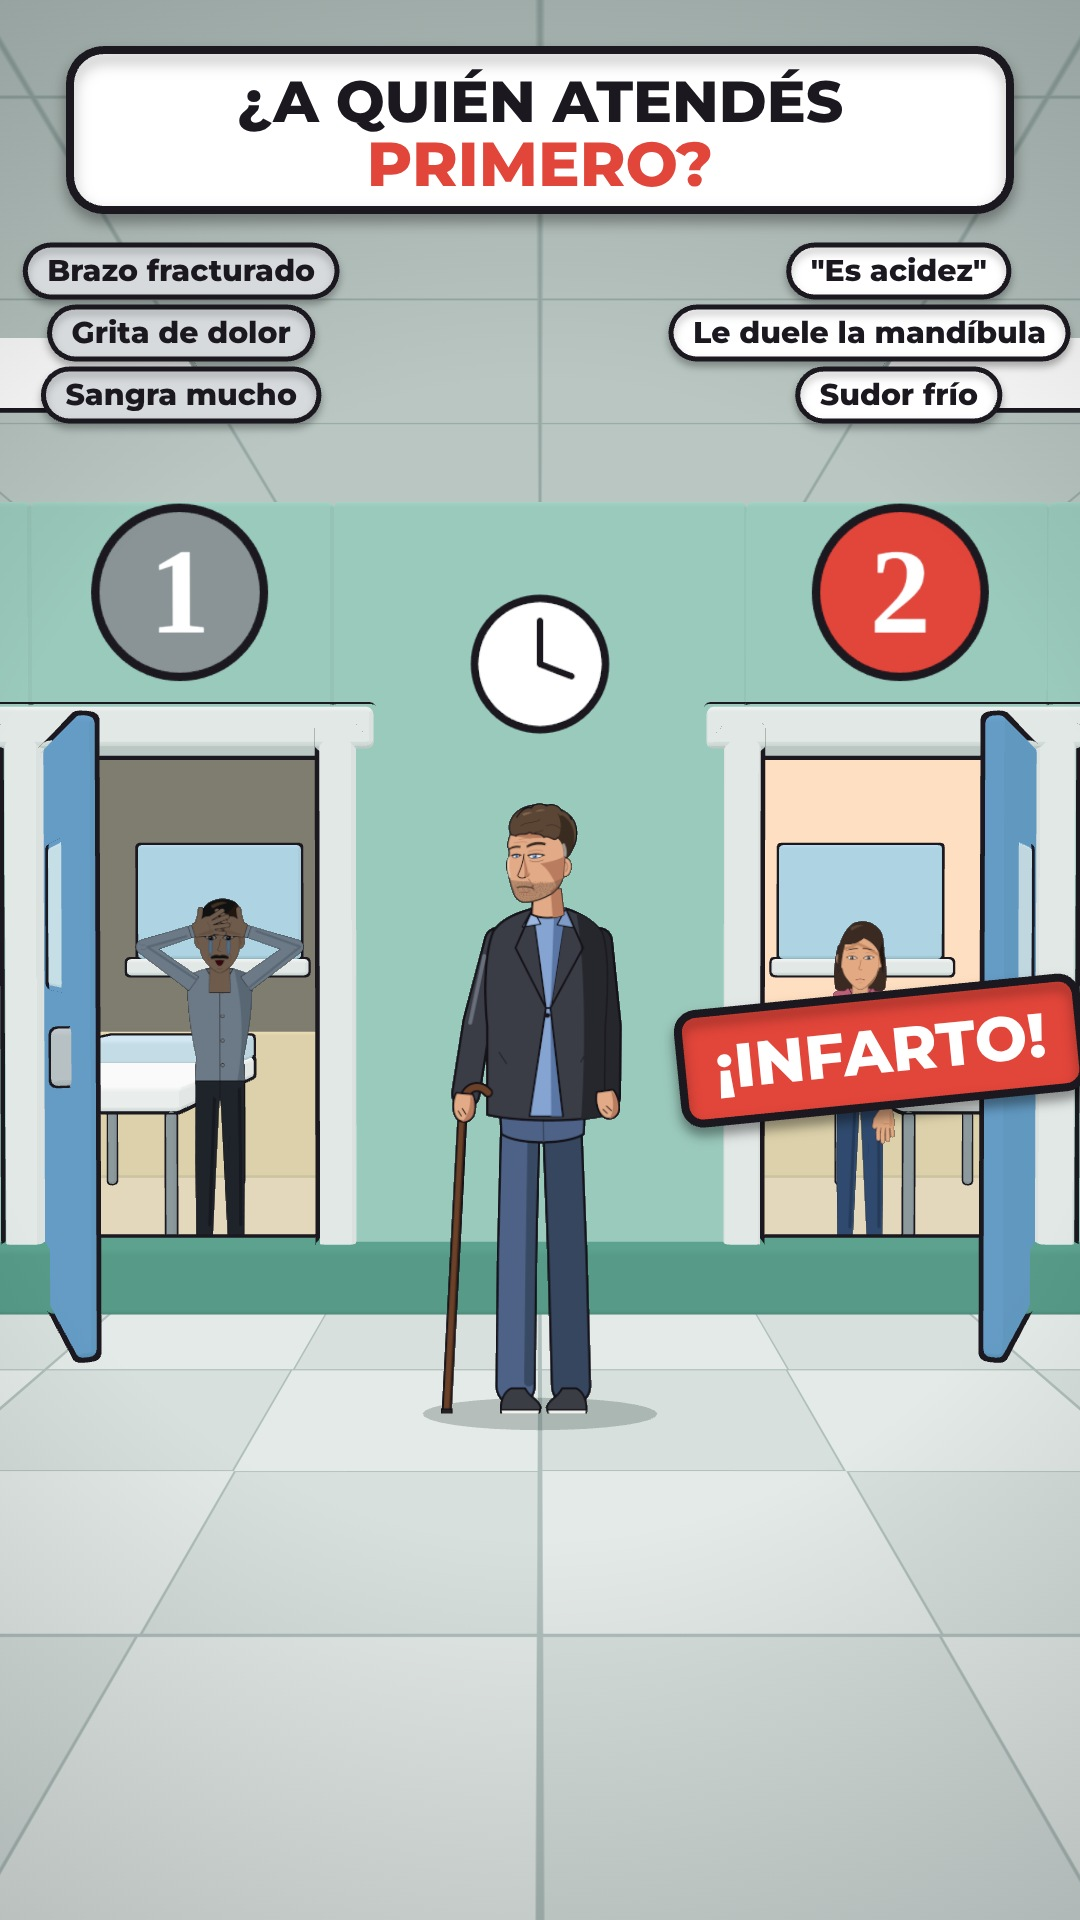
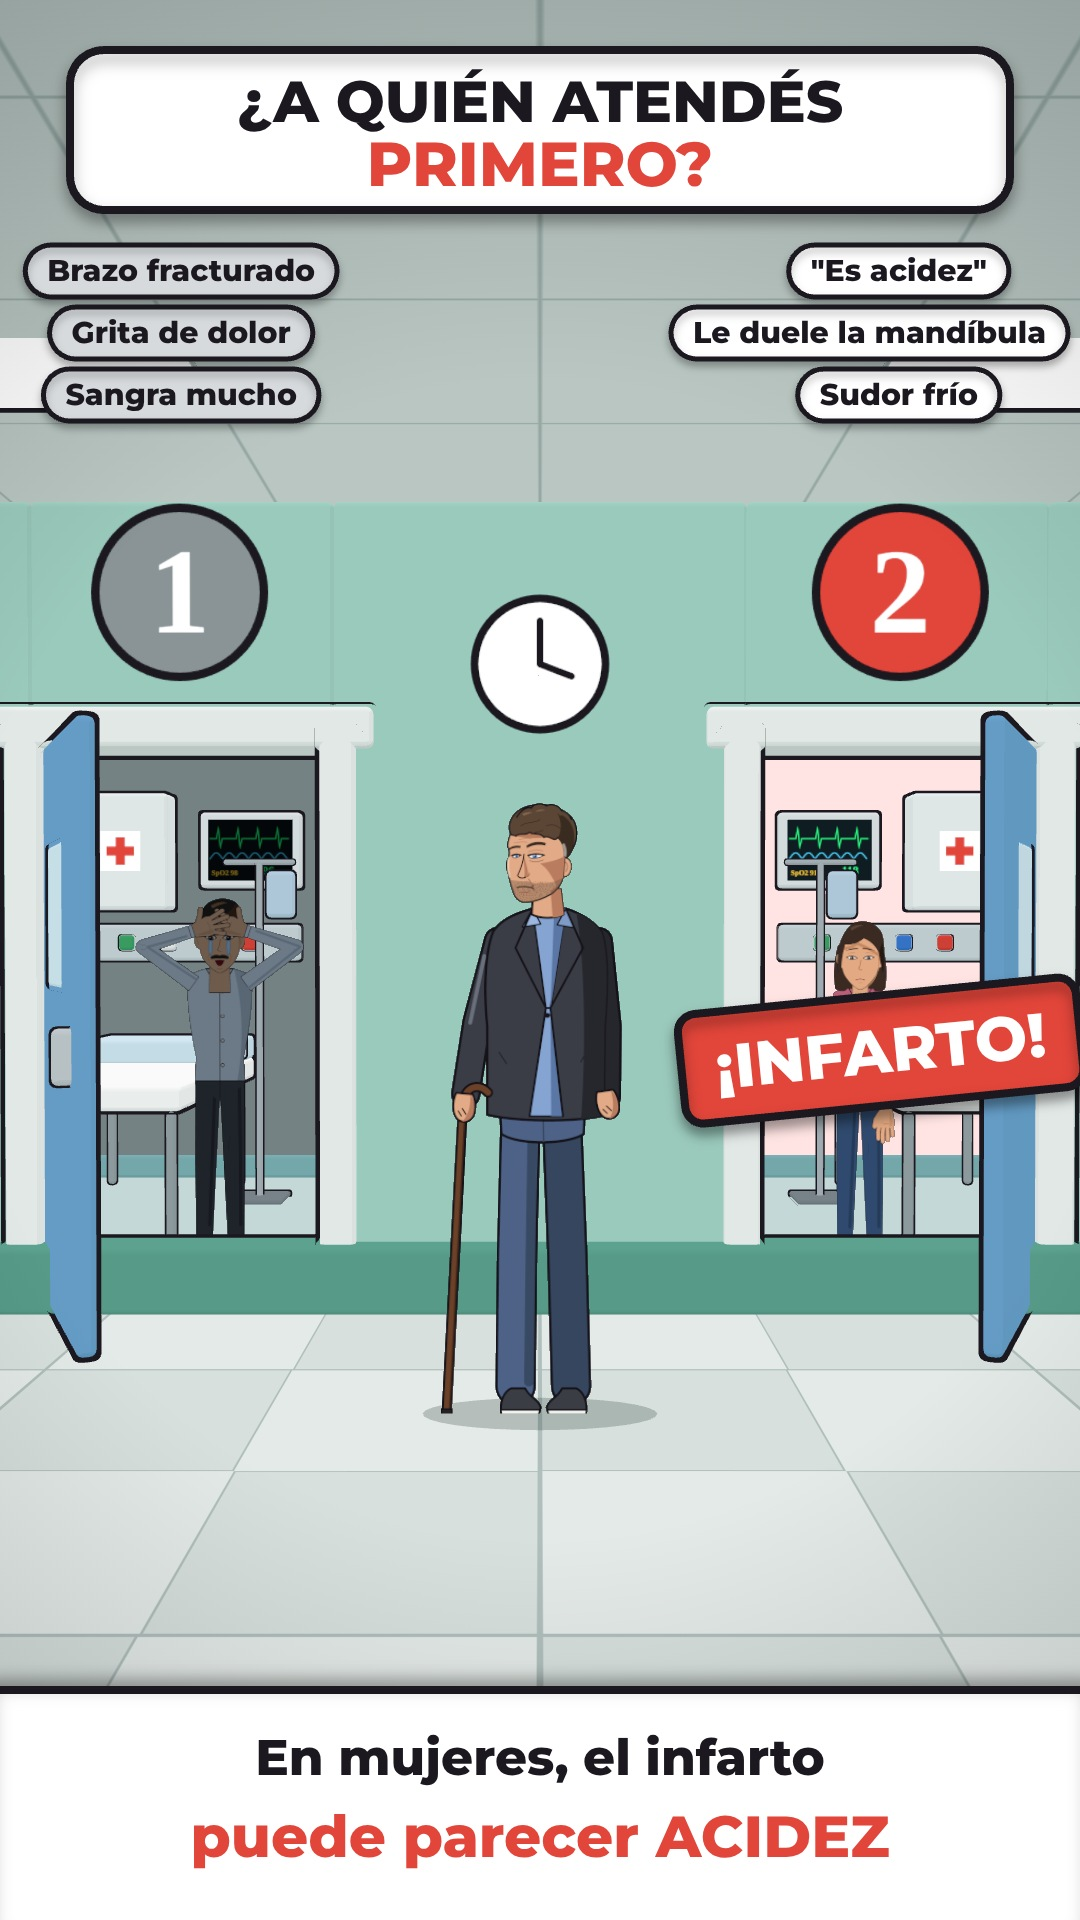
Puertas 3D: cuartos de hospital (monitor, suero, panel de oxígeno, botiquín) y vuelve el dato en la revelación
Claude-Session: https://claude.ai/code/session_01GkkXfD2Nm3TmxvYx4d4aPy

diff --git a/herramientas/marvel/puertas3d.js b/herramientas/marvel/puertas3d.js
@@ -53,19 +53,42 @@ for (const [s, n] of [[-1, 1], [1, 2]]) {
   box(.4, .55, .08, '#d9eef8', -s * (DW - .06) / 2, 1.55, 0, { parent: hinge, t: .01 });
   box(.05, .2, .1, '#c9cfd4', -s * (DW - .2), 1.05, .05, { parent: hinge, t: .008 });
   // cuarto
-  const RZ = ZB - .1, RD = 3.2, RW = 3.0, inside = toon('#fbeed0', null, REVEAL ? { emissive: n === 2 ? '#ff2a1a' : '#000000', emissiveIntensity: n === 2 ? .45 : 0, color: n === 1 ? '#8c8778' : '#fbeed0' } : {});
+  const RZ = ZB - .1, RD = 3.2, RW = 3.0, inside = toon('#e6f3f4', null, REVEAL ? { emissive: n === 2 ? '#ff2a1a' : '#000000', emissiveIntensity: n === 2 ? .45 : 0, color: n === 1 ? '#7f8c8e' : '#e6f3f4' } : {});
   const rm = new THREE.Group(); S.add(rm);
   const rp = (w, h, x, y, z, rx, ry, c) => { const m = new THREE.Mesh(new THREE.PlaneGeometry(w, h), c ? toon(c) : inside); m.position.set(x, y, z); m.rotation.set(rx, ry, 0); rm.add(m); return m; };
   rp(RW, HG, cx, HG / 2, RZ - RD, 0, 0);                                   // fondo
   rp(RD, HG, cx - RW / 2, HG / 2, RZ - RD / 2, 0, Math.PI / 2);             // lados
   rp(RD, HG, cx + RW / 2, HG / 2, RZ - RD / 2, 0, -Math.PI / 2);
-  rp(RW, RD, cx, 0, RZ - RD / 2, -Math.PI / 2, 0, '#e8dcc0');               // piso
-  rp(RW, RD, cx, HG, RZ - RD / 2, Math.PI / 2, 0, '#fff7e6');
-  box(RW, .9, .05, '#f1e0b8', cx, .45, RZ - RD + .03, { line: false });     // zócalo del cuarto
-  box(1.0, .7, .06, '#bfe3f5', cx + s * .55, 1.7, RZ - RD + .05, { t: .014 }); // ventana
-  box(1.1, .1, .1, '#f7f9f8', cx + s * .55, 1.3, RZ - RD + .1, { t: .012 });
+  rp(RW, RD, cx, 0, RZ - RD / 2, -Math.PI / 2, 0, '#c9dcdc');               // piso
+  rp(RW, RD, cx, HG, RZ - RD / 2, Math.PI / 2, 0, '#f6fbfb');
+  box(RW, .14, .05, '#7fb3b8', cx, .07, RZ - RD + .03, { line: false });
+  // panel de cabecera con tomas de oxígeno
+  const BX = cx + s * .7, BZ = RZ - 2.0;
+  box(1.3, .22, .1, '#cfd9de', BX, 1.45, RZ - RD + .06, { t: .012 });
+  for (const [k, c] of [[-.4, '#3fa66a'], [-.15, '#f2f2f2'], [.1, '#3a7bd5'], [.35, '#e2453a']]) box(.09, .09, .05, c, BX + k, 1.45, RZ - RD + .13, { t: .008, r: .02 });
+  // monitor de signos vitales en brazo de pared
+  const ecg = tex(512, 384, (x, w, h) => { x.fillStyle = '#0f1d22'; x.fillRect(0, 0, w, h); x.strokeStyle = '#2dff8a'; x.lineWidth = 6; x.beginPath(); let px = 10; x.moveTo(px, 120); for (let k = 0; k < 4; k++) { x.lineTo(px + 40, 120); x.lineTo(px + 52, 60); x.lineTo(px + 64, 170); x.lineTo(px + 76, 120); px += 120; x.lineTo(px, 120); } x.stroke();
+    x.strokeStyle = '#4fd3ff'; x.beginPath(); x.moveTo(10, 250); for (let k = 0; k < 480; k += 8) x.lineTo(10 + k, 250 - Math.abs(Math.sin(k / 25)) * 40); x.stroke();
+    x.font = '800 70px Montserrat'; x.fillStyle = '#2dff8a'; x.fillText(n === 2 ? '118' : '96', 330, 345); x.fillStyle = '#ffd23f'; x.font = '800 44px Montserrat'; x.fillText('SpO2 ' + (n === 2 ? '91' : '98'), 20, 350); });
+  const MX = cx + s * .3, MZ = RZ - RD + .32;
+  box(.04, .04, .28, '#9aa5ab', MX, 2.0, RZ - RD + .17, { t: .006 });
+  box(.6, .45, .1, '#e7ebee', MX, 2.0, MZ, { t: .014 });
+  const scr = new THREE.Mesh(new THREE.PlaneGeometry(.5, .36), new THREE.MeshBasicMaterial({ map: ecg, color: REVEAL && n === 1 ? '#777777' : '#ffffff' })); scr.position.set(MX, 2.0, MZ + .052); rm.add(scr);
+  // gabinete con cruz roja
+  const cross = tex(256, 256, (x, w, h) => { x.fillStyle = '#ffffff'; x.fillRect(0, 0, w, h); x.fillStyle = '#e2453a'; x.fillRect(98, 40, 60, 176); x.fillRect(40, 98, 176, 60); });
+  box(.55, .7, .25, '#f4f7f8', cx + s * 1.1, 2.0, RZ - RD + .14, { t: .014 });
+  const cr = new THREE.Mesh(new THREE.PlaneGeometry(.24, .24), new THREE.MeshBasicMaterial({ map: cross })); cr.position.set(cx + s * 1.1, 2.0, RZ - RD + .27); rm.add(cr);
+  // soporte de suero
+  const IX = cx + s * .15, IZ = RZ - 2.3;
+  box(.035, 1.9, .035, '#aeb8be', IX, .95, IZ, { t: .008 }); box(.4, .03, .03, '#aeb8be', IX, 1.9, IZ, { t: .006 });
+  box(.16, .26, .06, '#cfeaff', IX + .12, 1.72, IZ, { t: .01, r: .04, mat: toon('#cfeaff', null, { transparent: true, opacity: .9 }) });
+  box(.3, .03, .3, '#7b858c', IX, .02, IZ, { t: .008 });
+  // cortina de box
+  box(.04, .04, 2.6, '#c3ccd1', cx - s * 1.4, 2.6, RZ - 1.6, { t: .006 });
+  for (let k = 0; k < 6; k++) box(.08, 1.9, .3, k % 2 ? '#9fd3c4' : '#b6e0d3', cx - s * (1.38 - (k % 2) * .05), 1.6, RZ - 2.8 + k * .26, { t: .01, r: .03 });
   // camilla
   box(.9, .12, 1.9, '#ffffff', cx + s * .75, .7, RZ - 2.0, { t: .014 }); box(.88, .14, .5, '#d6ecf7', cx + s * .75, .82, RZ - 2.75, { t: .012 });
+  box(.04, .22, 1.0, '#c9d2d7', cx + s * .75 - s * .47, .9, RZ - 2.0, { t: .008 });
   for (const [ax, az] of [[-.38, -.85], [.38, -.85], [-.38, .85], [.38, .85]]) box(.05, .62, .05, '#9aa5ab', cx + s * .75 + ax, .32, RZ - 2.0 + az, { t: .008 });
   // cartel con número arriba de la puerta
   const sign = tex(256, 256, (x, w, h) => { x.fillStyle = REVEAL ? (n === 2 ? '#e2453a' : '#8a9496') : '#2f7fd0'; x.beginPath(); x.arc(128, 128, 118, 0, 7); x.fill(); x.lineWidth = 12; x.strokeStyle = INK; x.stroke(); x.fillStyle = '#fff'; x.font = '800 170px Montserrat'; x.textAlign = 'center'; x.textBaseline = 'middle'; x.fillText(n, 128, 140); });
@@ -118,12 +141,12 @@ window.renderFrame = async () => {
   }
   if (REVEAL) { const [sx, sy] = toScr(DX, 1.0, ZB - .2); X.save(); X.translate(sx, sy); X.rotate(-.1); X.shadowColor = 'rgba(0,0,0,.35)'; X.shadowOffsetY = 8; X.shadowBlur = 12; pill(-200, -55, 400, 110, '#e2453a', 18, 8); X.restore(); X.save(); X.translate(sx, sy); X.rotate(-.1); text('¡INFARTO!', 0, 4, 62, '#fff'); X.restore(); }
   // banda inferior
-  if (REVEAL && Q.get('dato')) { X.save(); X.shadowColor = 'rgba(0,0,0,.3)'; X.shadowOffsetY = -6; X.shadowBlur = 16; pill(-10, 1690, 1100, 260, '#ffffff', 0, 8); X.restore(); }
+  if (REVEAL && !Q.get('nodato')) { X.save(); X.shadowColor = 'rgba(0,0,0,.3)'; X.shadowOffsetY = -6; X.shadowBlur = 16; pill(-10, 1690, 1100, 260, '#ffffff', 0, 8); X.restore(); }
   if (!REVEAL && Q.get('cta')) {
     text('COMENTÁ', 320, 1775, 58); text('1  o  2', 320, 1850, 70, '#2f7fd0');
     X.beginPath(); X.arc(820, 1700, 120, 0, 7); X.fillStyle = '#ffd23f'; X.fill(); X.lineWidth = 9; X.strokeStyle = INK; X.stroke();
     X.beginPath(); X.arc(820, 1700, 98, -Math.PI / 2, -Math.PI / 2 + Math.PI * 2 * .8); X.lineWidth = 18; X.lineCap = 'round'; X.strokeStyle = '#e2453a'; X.stroke(); text('5', 820, 1708, 120);
-  } else if (REVEAL && Q.get('dato')) { text('En mujeres, el infarto', 540, 1760, 50); text('puede parecer ACIDEZ', 540, 1840, 58, '#e2453a'); }
+  } else if (REVEAL && !Q.get('nodato')) { text('En mujeres, el infarto', 540, 1760, 50); text('puede parecer ACIDEZ', 540, 1840, 58, '#e2453a'); }
   return OUT.toDataURL('image/jpeg', .93);
 };
 await document.fonts.load('800 40px Montserrat'); window.ready = true;
